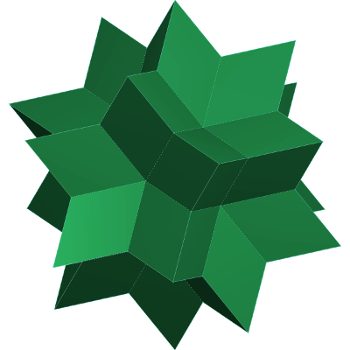
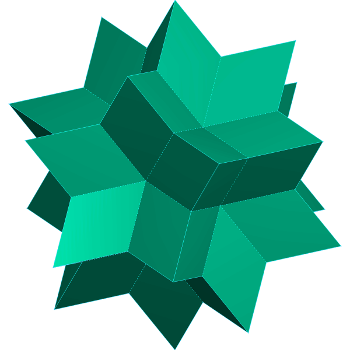
Image change - Update style - Change Colorscheme - Minor html fixes

diff --git a/_sass/_default.scss b/_sass/_default.scss
@@ -1,16 +1,19 @@
 /**
  * HTML overflo
  */
- html, body {
-    width: 100%;
-    height: 100%;
-    overflow: hidden;
-    > div {
-       height: 100%;
-       overflow: scroll;
-       -webkit-overflow-scrolling: touch;
-    }
- }
+html, body {
+  width: 100%;
+  height: 100%;
+  overflow: hidden;
+  > div {
+     height: 100%;
+     overflow: scroll;
+     -webkit-overflow-scrolling: touch;
+  }
+}
+a {
+  color:theme-secondary;
+}
 
 /**
  * Site nav
@@ -21,7 +24,7 @@
     position: fixed;
     top:0;
     bottom:0;
-    min-width: 250px;
+    min-width: 300px;
     min-height: 100%;
     margin-bottom: 0px;
     border-radius: 0px;
@@ -39,6 +42,7 @@
     .logo-wrapper {
       background-color: $theme-primary;
       display: block;
+      padding: 10px 0px;
       a {
         text-align: center;
         .logo {
@@ -48,50 +52,59 @@
           max-width:100px;
           max-height: 100px;
         }
-        .site-title {
-            display: block;
-            font-size: 26px;
-            line-height: 56px;
-            letter-spacing: -1px;
-        }
-        &,
-        &:visited {
-            color: $text-color;
-        }
-        &:hover {
-          text-decoration: none;
-        }
       }
     }
-
+    .site-title {
+        display: block;
+        font-weight: bold;
+        font-size: 26px;
+        line-height: 56px;
+        // letter-spacing: -1px;
+        text-align: center;
+        :visited {
+          color: $theme-gray-light;
+        }
+        :hover {
+          text-decoration: none;
+        }
+        a {
+          color: $theme-gray-light;
+        }
+    }
+    .navbar-collapse {
+      padding-right: 0;
+      padding-left: 0;
+    }
     .nav-menu{
       top: auto;
       bottom: auto;
       padding-top: $spacing-unit;
       padding-bottom: $spacing-unit;
       text-align: center;
-      background-color: $theme-primary-light;
-      @include box-shadow(inset 0px 0px 10px 1px $theme-gray-dark);
+      // @include box-shadow(inset 0px 0px 10px 1px $theme-gray-dark);
       ul {
-        margin:0;
+        margin: 0;
+        width: 100%;
         li {
           list-style:none;
           padding-top: 5px;
           padding-bottom: 5px;
+          // font-weight: ;
+          font-size: 20px;
           &:hover {
-            background-color: $theme-secondary;
+            background-color: $theme-secondary-light;
             .page-link {
               color: $theme-gray-light;
             }
           }
         }
         .page-link {
-            color: $text-color;
+            color: $theme-gray-light;
             line-height: $base-line-height;
             letter-spacing: 3px;
             // Gaps between nav items, but not on the first one
             &:not(:last-child) {
-                margin-top: 20px;
+                margin-top: 18px;
             }
             &:hover {
               text-decoration: none;
@@ -102,16 +115,15 @@
 
     .nav-footer {
       bottom: 0;
-      position:relative;
+      position:absolute;
       display: block;
-      background-color: $theme-primary;
       padding: $spacing-unit 0;
-      height: 300px;
-      max-height: 300px;
+      width: 100%;
+      max-height: 200px;
       .contact {
           .author-link {
             text-decoration: none;
-            color: $theme-gray;
+            color: $theme-gray-light;
             margin-bottom: 0;
             .author {
               text-align: center;
@@ -125,20 +137,29 @@
             margin:0 auto 0 auto;
             text-align: center;
             list-style: none;
+            .svg {
+              color: $theme-gray-light;
+              path {
+                  fill: $theme-gray-light;
+              }
+            }
+            .username {
+              color: $theme-gray-light;
+            }
           }
       }
     }
 
     @include media-query($on-palm) {
-        position: fixed;
-        top:0;
-        right:0;
-        left:0;
-        bottom:auto;
-        background-color: $theme-primary-light;
-        border: 1px solid $theme-gray-light;
-        border-radius: 5px;
-        text-align: right;
+        // position: fixed;
+        // top:0;
+        // right:0;
+        // left:0;
+        // bottom:auto;
+        // background-color: $theme-primary;
+        // border: 1px solid $theme-gray-light;
+        // border-radius: 5px;
+        // text-align: right;
 
         .menu-icon {
             display: block;
@@ -155,7 +176,7 @@
                 height: 15px;
 
                 path {
-                    fill: $theme-gray-dark;
+                    fill: $theme-gray-light;
                 }
             }
         }
@@ -164,13 +185,12 @@
             .logo {
               display:none;
             }
-            .site-title {
-
-            }
           }
         }
+        .site-title {
+        }
         .nav-menu {
-          display:none;
+          // display:none;
         }
 
         &:hover .nav-menu {
@@ -184,7 +204,7 @@
             padding: 5px 10px;
         }
         .nav-footer {
-          display: none;
+          // display: none;
         }
     }
     @include media-query($on-tablet) {

diff --git a/_includes/nav.html b/_includes/nav.html
@@ -10,7 +10,11 @@
       <div class="logo-wrapper">
         <a href="http://{{ site.url }}">
           <img class="logo img-responsive" src="/app/img/hexecontahedron.png" alt="{{ site.title }}">
-          <div class="site-title navbar-brand">{{ site.title }}</div>
+        </a>
+      </div>
+      <div class="site-title">
+        <a href="http://{{ site.url }}">
+          {{ site.title }}
         </a>
       </div>
     </div><!-- /.navbar-header -->
@@ -28,14 +32,14 @@
 
       <div class="nav-footer pull-down">
         <div class="contact">
-          <a class="author-link" href="https://github.com/{{ site.github_username }}"><h2 class="author">{{ site.author }}</h2></a>
+          <a class="author-link" href="https://github.com/{{ site.github_username }}"><h4 class="author">{{ site.author }}</h4></a>
           <ul class="social-media-list">
             {% if site.github_username %}
             <li>
               <a href="https://github.com/{{ site.github_username }}">
                 <span class="icon  icon--github">
                   <svg viewBox="0 0 16 16">
-                    <path fill="#828282" d="M7.999,0.431c-4.285,0-7.76,3.474-7.76,7.761 c0,3.428,2.223,6.337,5.307,7.363c0.388,0.071,0.53-0.168,0.53-0.374c0-0.184-0.007-0.672-0.01-1.32 c-2.159,0.469-2.614-1.04-2.614-1.04c-0.353-0.896-0.862-1.135-0.862-1.135c-0.705-0.481,0.053-0.472,0.053-0.472 c0.779,0.055,1.189,0.8,1.189,0.8c0.692,1.186,1.816,0.843,2.258,0.645c0.071-0.502,0.271-0.843,0.493-1.037 C4.86,11.425,3.049,10.76,3.049,7.786c0-0.847,0.302-1.54,0.799-2.082C3.768,5.507,3.501,4.718,3.924,3.65 c0,0,0.652-0.209,2.134,0.796C6.677,4.273,7.34,4.187,8,4.184c0.659,0.003,1.323,0.089,1.943,0.261 c1.482-1.004,2.132-0.796,2.132-0.796c0.423,1.068,0.157,1.857,0.077,2.054c0.497,0.542,0.798,1.235,0.798,2.082 c0,2.981-1.814,3.637-3.543,3.829c0.279,0.24,0.527,0.713,0.527,1.437c0,1.037-0.01,1.874-0.01,2.129 c0,0.208,0.14,0.449,0.534,0.373c3.081-1.028,5.302-3.935,5.302-7.362C15.76,3.906,12.285,0.431,7.999,0.431z"/>
+                    <path fill="#e8e8e8" d="M7.999,0.431c-4.285,0-7.76,3.474-7.76,7.761 c0,3.428,2.223,6.337,5.307,7.363c0.388,0.071,0.53-0.168,0.53-0.374c0-0.184-0.007-0.672-0.01-1.32 c-2.159,0.469-2.614-1.04-2.614-1.04c-0.353-0.896-0.862-1.135-0.862-1.135c-0.705-0.481,0.053-0.472,0.053-0.472 c0.779,0.055,1.189,0.8,1.189,0.8c0.692,1.186,1.816,0.843,2.258,0.645c0.071-0.502,0.271-0.843,0.493-1.037 C4.86,11.425,3.049,10.76,3.049,7.786c0-0.847,0.302-1.54,0.799-2.082C3.768,5.507,3.501,4.718,3.924,3.65 c0,0,0.652-0.209,2.134,0.796C6.677,4.273,7.34,4.187,8,4.184c0.659,0.003,1.323,0.089,1.943,0.261 c1.482-1.004,2.132-0.796,2.132-0.796c0.423,1.068,0.157,1.857,0.077,2.054c0.497,0.542,0.798,1.235,0.798,2.082 c0,2.981-1.814,3.637-3.543,3.829c0.279,0.24,0.527,0.713,0.527,1.437c0,1.037-0.01,1.874-0.01,2.129 c0,0.208,0.14,0.449,0.534,0.373c3.081-1.028,5.302-3.935,5.302-7.362C15.76,3.906,12.285,0.431,7.999,0.431z"/>
                   </svg>
                 </span>
 
@@ -49,7 +53,7 @@
               <a href="https://twitter.com/{{ site.twitter_username }}">
                 <span class="icon  icon--twitter">
                   <svg viewBox="0 0 16 16">
-                    <path fill="#828282" d="M15.969,3.058c-0.586,0.26-1.217,0.436-1.878,0.515c0.675-0.405,1.194-1.045,1.438-1.809
+                    <path fill="#e8e8e8" d="M15.969,3.058c-0.586,0.26-1.217,0.436-1.878,0.515c0.675-0.405,1.194-1.045,1.438-1.809
                     c-0.632,0.375-1.332,0.647-2.076,0.793c-0.596-0.636-1.446-1.033-2.387-1.033c-1.806,0-3.27,1.464-3.27,3.27 c0,0.256,0.029,0.506,0.085,0.745C5.163,5.404,2.753,4.102,1.14,2.124C0.859,2.607,0.698,3.168,0.698,3.767 c0,1.134,0.577,2.135,1.455,2.722C1.616,6.472,1.112,6.325,0.671,6.08c0,0.014,0,0.027,0,0.041c0,1.584,1.127,2.906,2.623,3.206 C3.02,9.402,2.731,9.442,2.433,9.442c-0.211,0-0.416-0.021-0.615-0.059c0.416,1.299,1.624,2.245,3.055,2.271 c-1.119,0.877-2.529,1.4-4.061,1.4c-0.264,0-0.524-0.015-0.78-0.046c1.447,0.928,3.166,1.469,5.013,1.469 c6.015,0,9.304-4.983,9.304-9.304c0-0.142-0.003-0.283-0.009-0.423C14.976,4.29,15.531,3.714,15.969,3.058z"/>
                   </svg>
                 </span>

diff --git a/_sass/_variables.scss b/_sass/_variables.scss
@@ -3,13 +3,14 @@
 // Colorscheme
 $text-color:       #111;
 
-$theme-primary:   #006A6A;
-$theme-primary-dark:   darken($theme-primary,10%);
-$theme-primary-light: lighten($theme-primary, 10%);
+$theme-primary:   #276162;
+$theme-primary-light: lighten($theme-primary, 30%);
+$theme-primary-dark: darken($theme-primary, 10%);
 
-$theme-secondary: #B69B09;
-$theme-secondary-dark: darken($theme-secondary,10%);
-$theme-terciary: #770C5A;
+$theme-secondary: #0D273F;
+$theme-secondary-light: lighten($theme-secondary,30%);
+$theme-terciary: #EFB532;
+$theme-cuaternary: #070D8D;
 
 $background-color: #FDFDFD;
 

diff --git a/_sass/_page.scss b/_sass/_page.scss
@@ -6,7 +6,7 @@
     padding-top: $spacing-unit;
     padding-left: 0;
     padding-right: 0;
-    margin-left: 250px;
+    margin-left: 300px;
     @include media-query($on-palm) {
         margin-left: 0px;
     }
